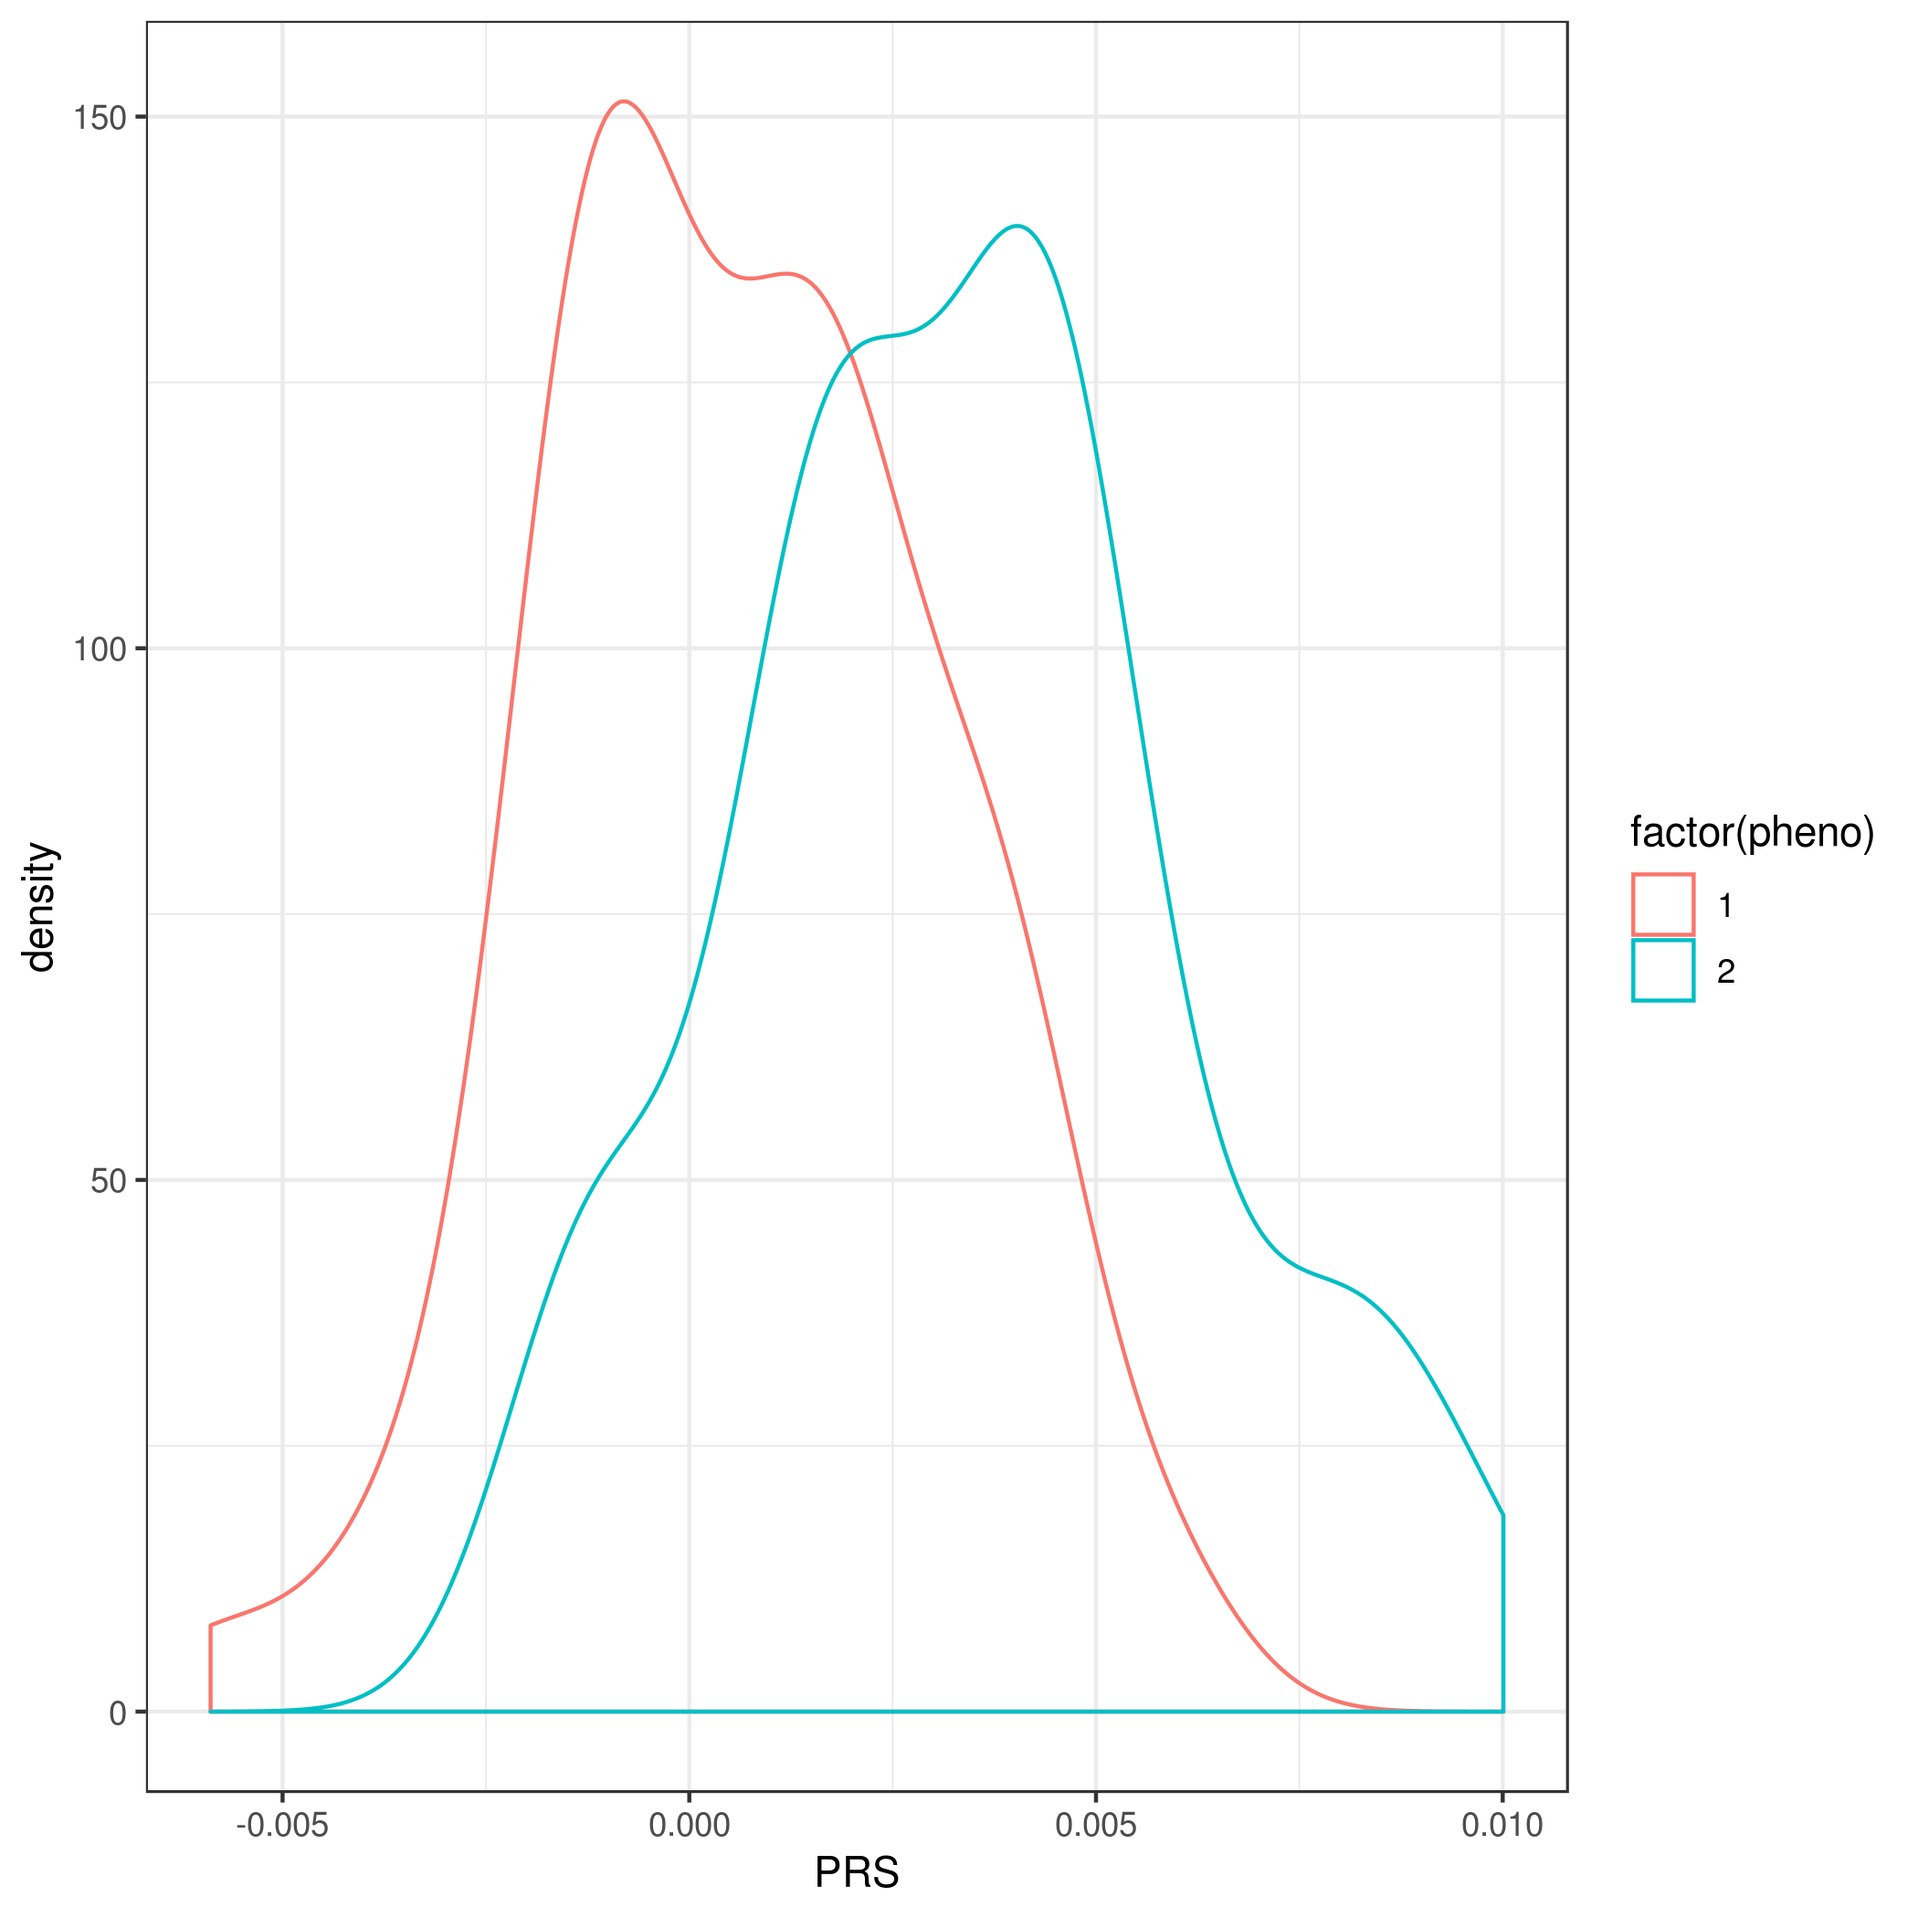
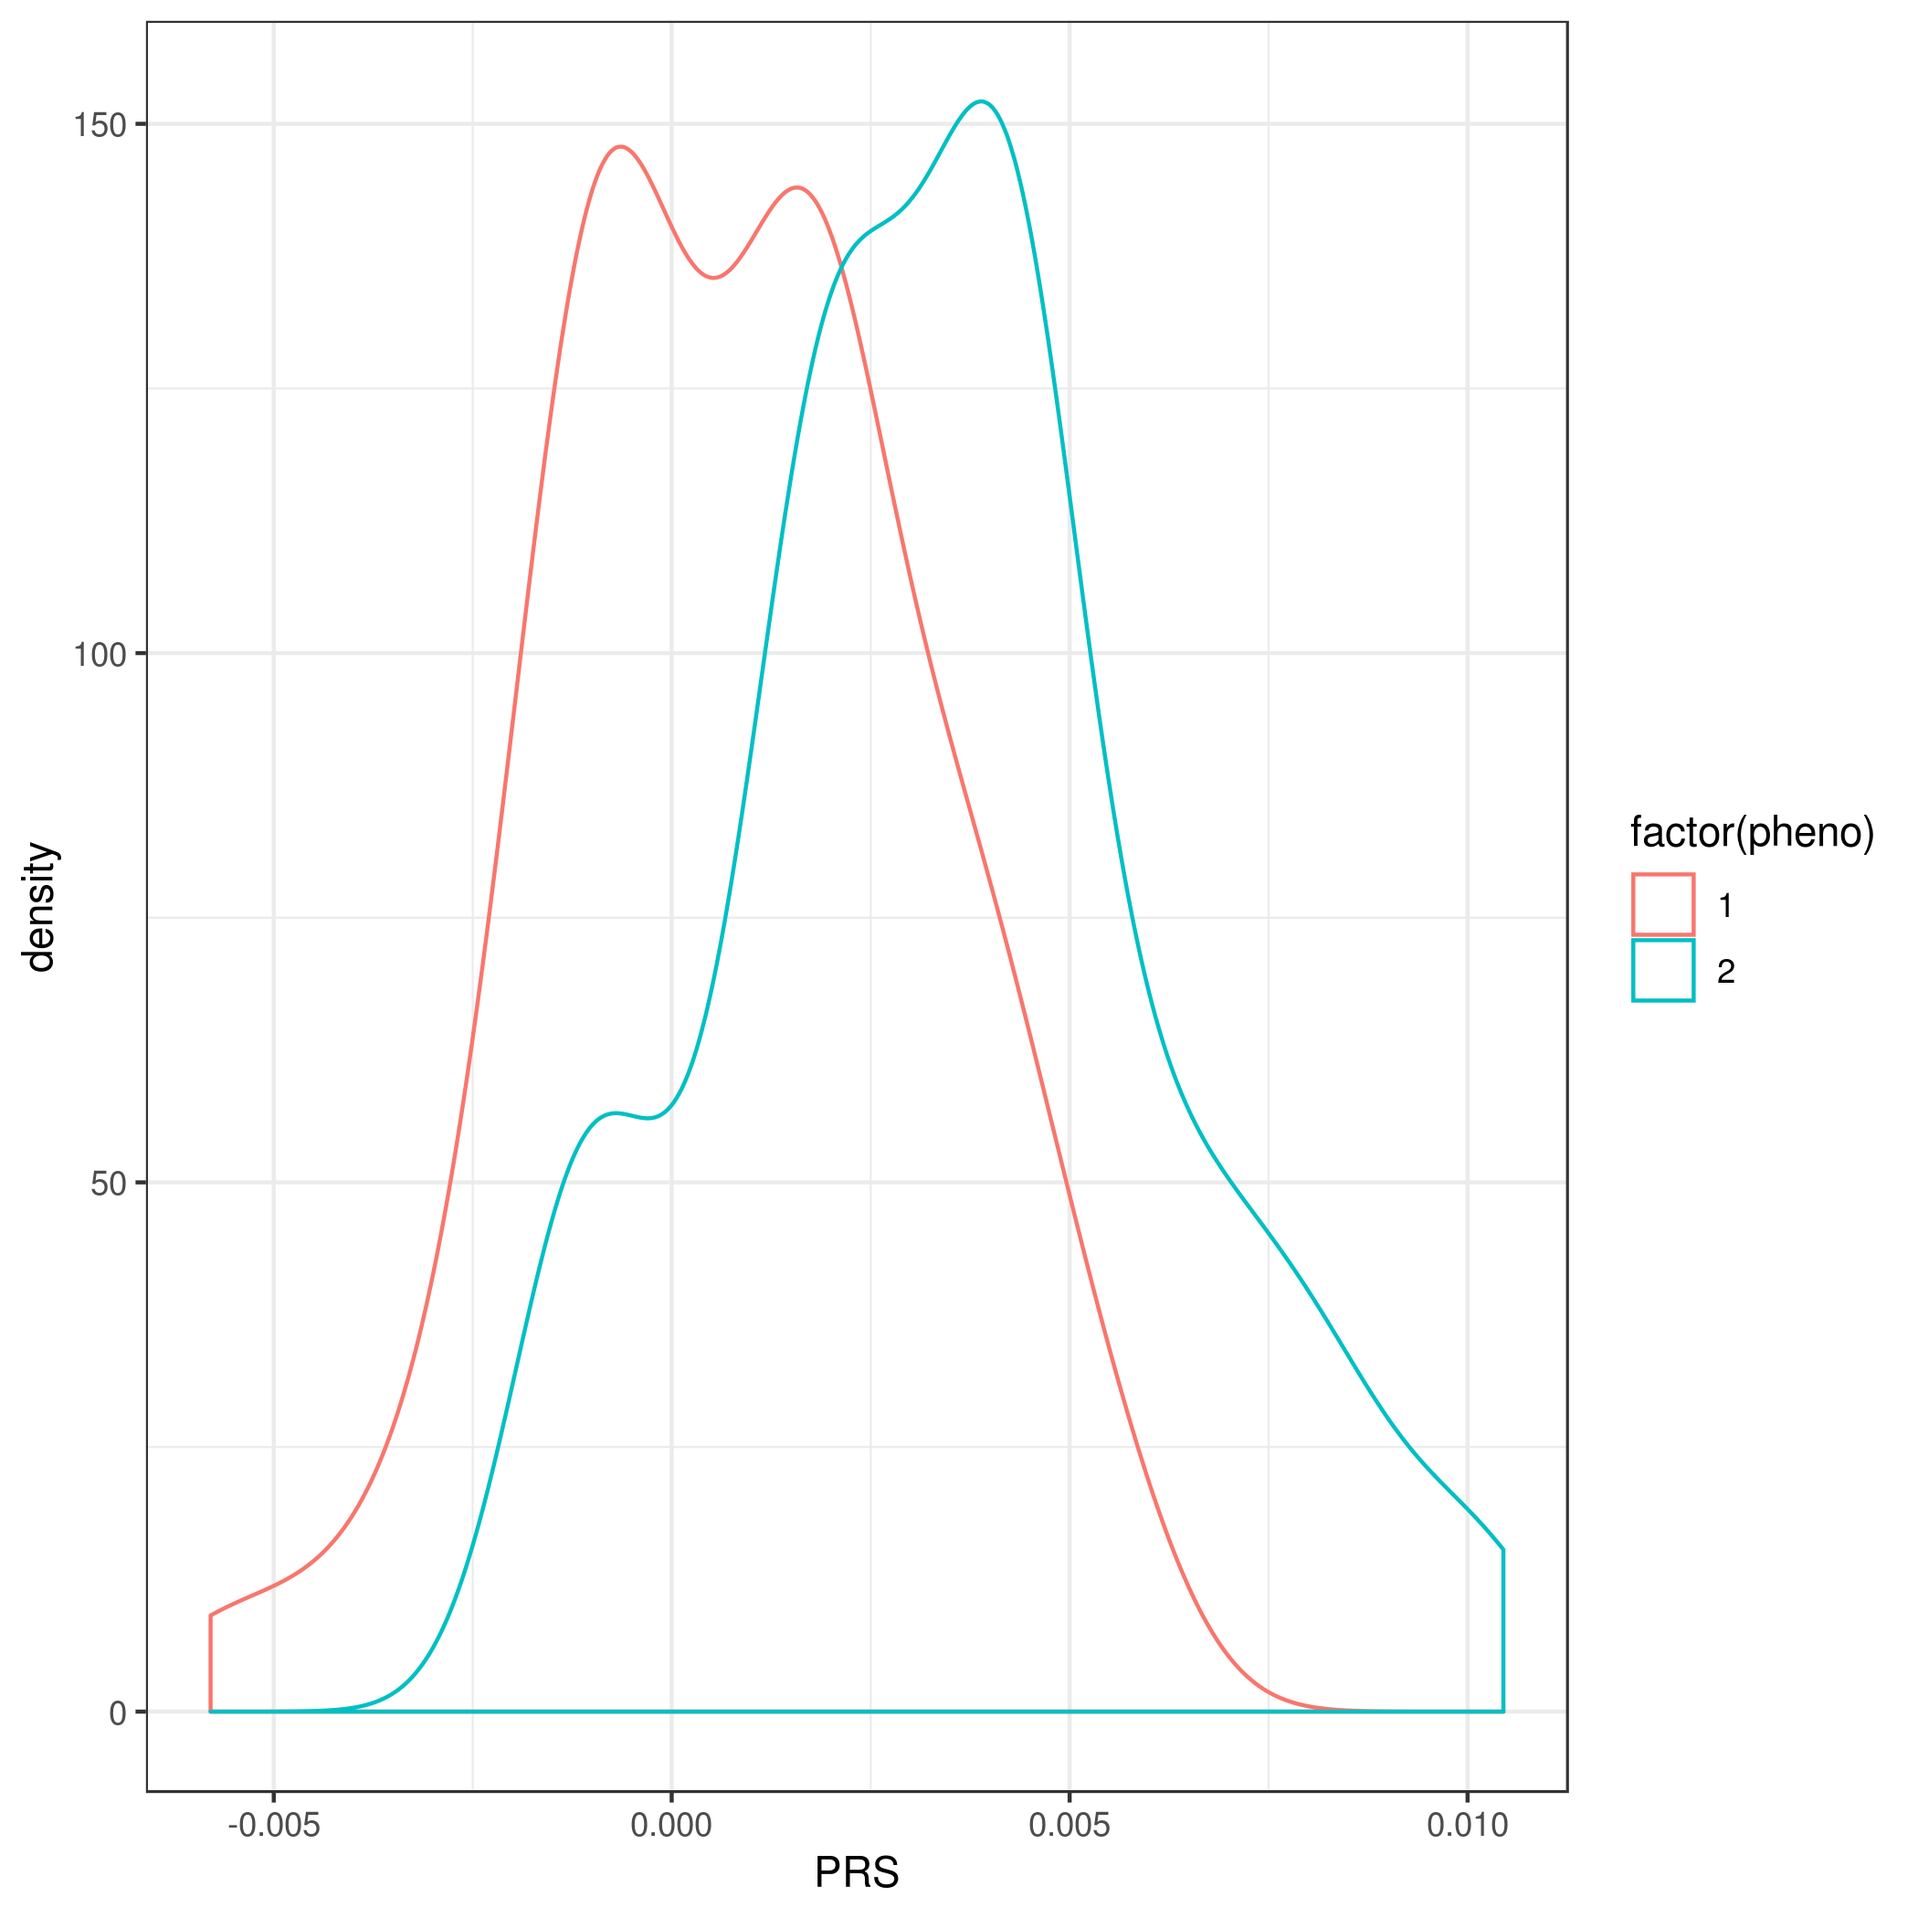
Stop prs clumping.

diff --git a/src/rules/sf_prs.py b/src/rules/sf_prs.py
@@ -98,7 +98,7 @@ rule prsice:
         'Rscript /usr/local/bin/PRSice.R --dir {DATA}/interim/prsice/{wildcards.group}/ '
         '--snp SNP --chr CHR --bp BP --A1 A1 --A2 A2 --stat EUR_OR --se EUR_SE --pvalue EUR_PVAL '
         '--prsice /usr/local/bin/PRSice_linux --keep-ambig '
-        '--base {input.a} --perm 1000000 '
+        '--base {input.a} --perm 1000000 --no-clump '
         '--target {DATA}interim/bfiles_imputed_grouped/{wildcards.group}/eur '
         '--thread {threads} --binary-target T '
         '--out {DATA}interim/prsice/{wildcards.group}/eur &> {log}'

diff --git a/writeup/tables/prs.md b/writeup/tables/prs.md
@@ -1,6 +1,6 @@
 | Phenotype   | Set   |   Threshold |     PRS.R2 |    Full.R2 |   Null.R2 | Prevalence   |   Coefficient |   Standard.Error |           P |   Num_SNP |   Empirical-P | test    |
 |:------------|:------|------------:|-----------:|-----------:|----------:|:-------------|--------------:|-----------------:|------------:|----------:|--------------:|:--------|
-| -           | Base  |      0.0024 | 0.181789   | 0.181789   |         0 | -            |      291.589  |          84.3756 | 0.000548572 |       223 |   0.000832999 | early   |
-| -           | Base  |      0.0024 | 0.22618    | 0.22618    |         0 | -            |      331.973  |          70.9393 | 2.87318e-06 |       223 |   5e-06       | all     |
-| -           | Base  |      0.0024 | 0.287795   | 0.287795   |         0 | -            |      409.659  |          90.8764 | 6.54825e-06 |       224 |   1.4e-05     | late    |
-| -           | Base  |      0.0001 | 0.00879689 | 0.00879689 |         0 | -            |      -54.2702 |          70.5771 | 0.441923    |       223 |   0.446712    | ibd_all |
+| -           | Base  |      0.0024 | 0.181496   | 0.181496   |         0 | -            |      292.663  |          84.7212 | 0.000551474 |       227 |   0.000860999 | early   |
+| -           | Base  |      0.0024 | 0.223198   | 0.223198   |         0 | -            |      330.461  |          71.0674 | 3.32002e-06 |       227 |   7.99999e-06 | all     |
+| -           | Base  |      0.0024 | 0.286093   | 0.286093   |         0 | -            |      414.587  |          92.8104 | 7.93114e-06 |       227 |   2.4e-05     | late    |
+| -           | Base  |      0.0001 | 0.00690521 | 0.00690521 |         0 | -            |      -48.3991 |          70.9848 | 0.495351    |       226 |   0.501955    | ibd_all |
